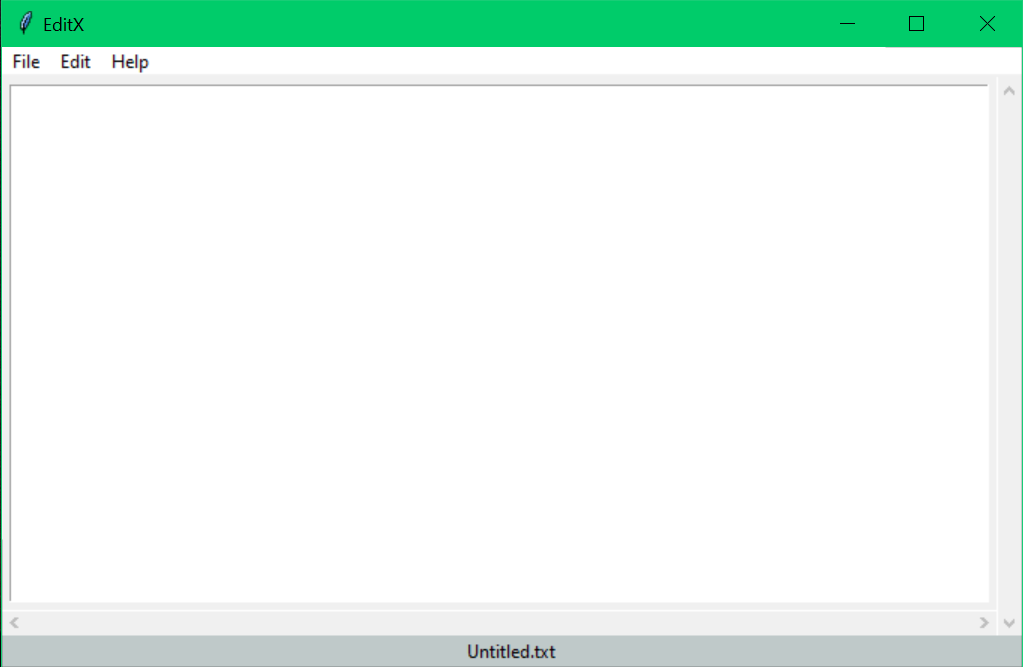
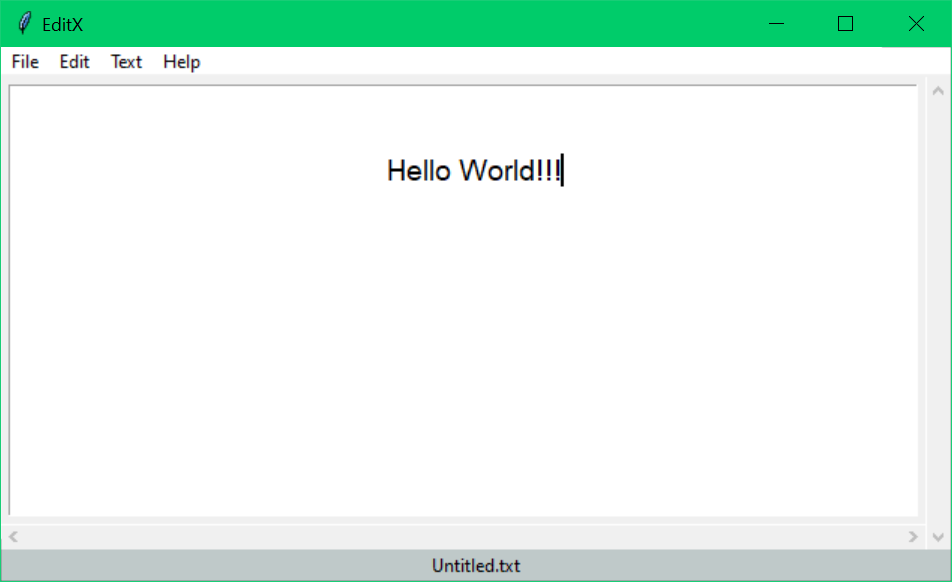
Add bold and italics text (Version 2.0)

Changed region(s): [[0.0, 0.0, 1.0, 0.1546], [0.0, 0.8351, 1.0, 1.0], [0.396, 0.2474, 0.6092, 0.3093]]

diff --git a/editx.py b/editx.py
@@ -1,12 +1,13 @@
 import tkinter as tk
 from tkinter import messagebox
 from tkinter.filedialog import askopenfilename, asksaveasfilename
+from tkinter import font
 import mimetypes
 
 class TextEditor:
-    file_name = "Untitled.txt"   # Default file name
+    file_name = "Untitled.txt"     # Default file name
     file_content = ""          # Content in a new file
-    file_saved_status = False         # File is saved or not
+    file_saved_status = False        # File is saved or not
 
     def __init__(self, master):
         self.master = master
@@ -32,8 +33,16 @@ class TextEditor:
 
         self.add_menu_command(self.edit_menu, "Edit", edit_menu_command_names, edit_menu_commands)
 
+        # Sub Menu (Text Menu)
+        self.text_menu = tk.Menu(self.menu_bar, tearoff=False)
+
+        text_menu_command_names = ["Bold", "Italic"]
+        text_menu_commands = [self.bold_text, self.italic_text]
+
+        self.add_menu_command(self.text_menu, "Text", text_menu_command_names, text_menu_commands)
+
         # Sub Menu (Help Menu)
-        self.help_menu = tk.Menu(self.menu_bar, tearoff=0)
+        self.help_menu = tk.Menu(self.menu_bar, tearoff=False)
 
         self.add_menu_command(self.help_menu, "Help", ["About"], [self.about_msg])
 
@@ -169,9 +178,36 @@ class TextEditor:
     def clear_all_text(self):
         self.text_area.delete(1.0, tk.END)
 
-    # 3. Help Sub Menu Command
+    # 3. Text Sub Menu Command
+    def bold_text(self):
+        # Define Font
+        bold_font = font.Font(self.text_area, self.text_area.cget("font"))
+        bold_font.configure(weight="bold")
+        # Configure Tag
+        self.text_area.tag_configure("bold", font=bold_font)
+        current_tags = self.text_area.tag_names("sel.first")
+        # Check if the selected text is bold or not
+        if "bold" in current_tags:
+            self.text_area.tag_remove("bold", "sel.first", "sel.last")
+        else:
+            self.text_area.tag_add("bold", "sel.first", "sel.last")
+
+    def italic_text(self):
+        # Define Font
+        italic_font = font.Font(self.text_area, self.text_area.cget("font"))
+        italic_font.configure(slant="italic")
+        # Configure Tag
+        self.text_area.tag_configure("italic", font=italic_font)
+        current_tags = self.text_area.tag_names("sel.first")
+        # Check if the selected text is bold or not
+        if "italic" in current_tags:
+            self.text_area.tag_remove("italic", "sel.first", "sel.last")
+        else:
+            self.text_area.tag_add("italic", "sel.first", "sel.last")
+
+    # 4. Help Sub Menu Command
     def about_msg(self):
-        messagebox.showinfo("EditX", "Version : 1.0\n\nDeveloped by Kunal Dhanwaria")
+        messagebox.showinfo("EditX", "Version : 2.0\n\nDeveloped by Kunal Dhanwaria")
 
 if __name__ == "__main__":
 

diff --git a/README.md b/README.md
@@ -12,10 +12,10 @@ A simple text editor app using python's tkinter module.
   
 ## Features
 
+- Unsaved changes detection
 - Undo and Redo events
 - Keyboard shortcuts
-- More features coming soon
+- Bold and Italics text
 
-Considering its functionalities you can call it Notepad--
 
   
